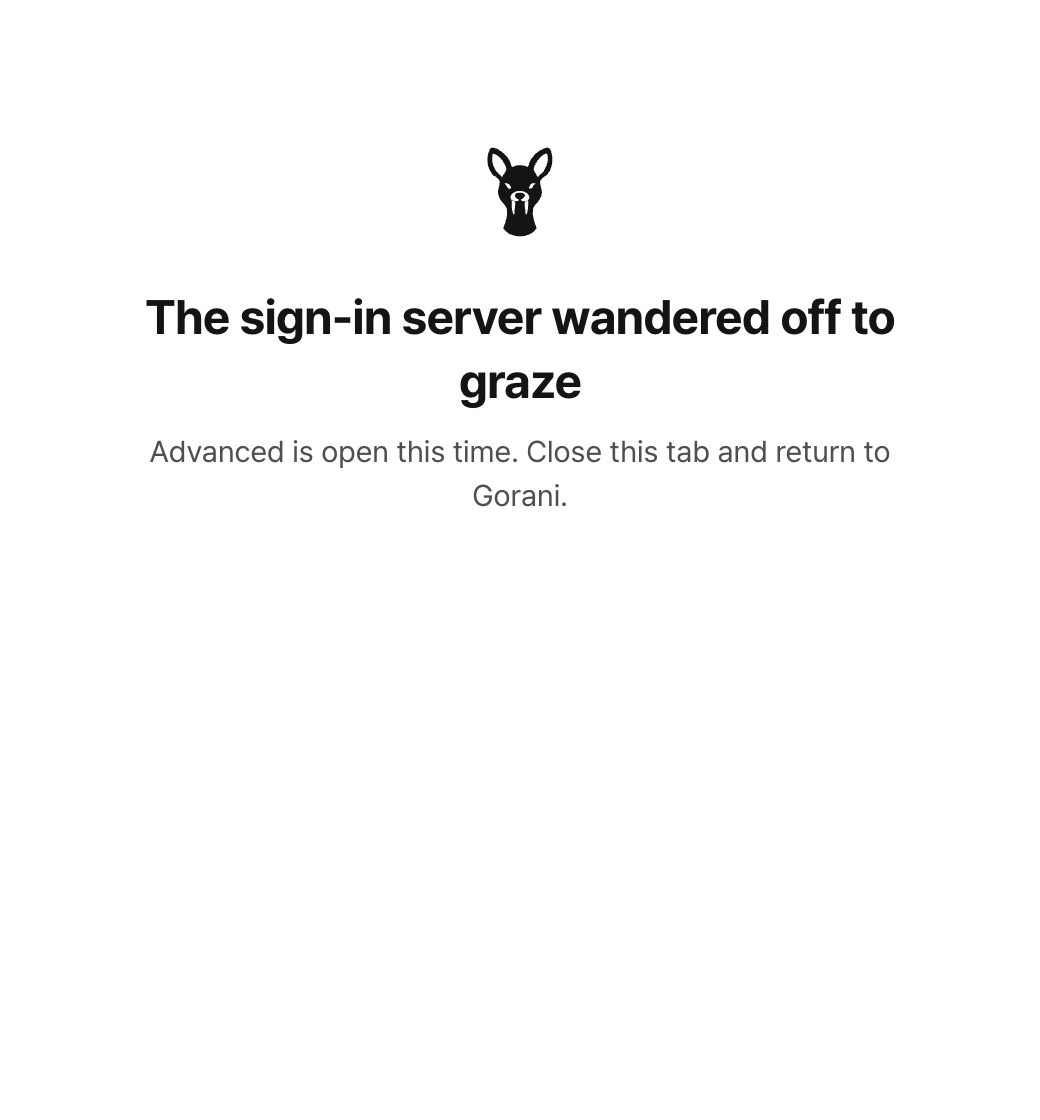
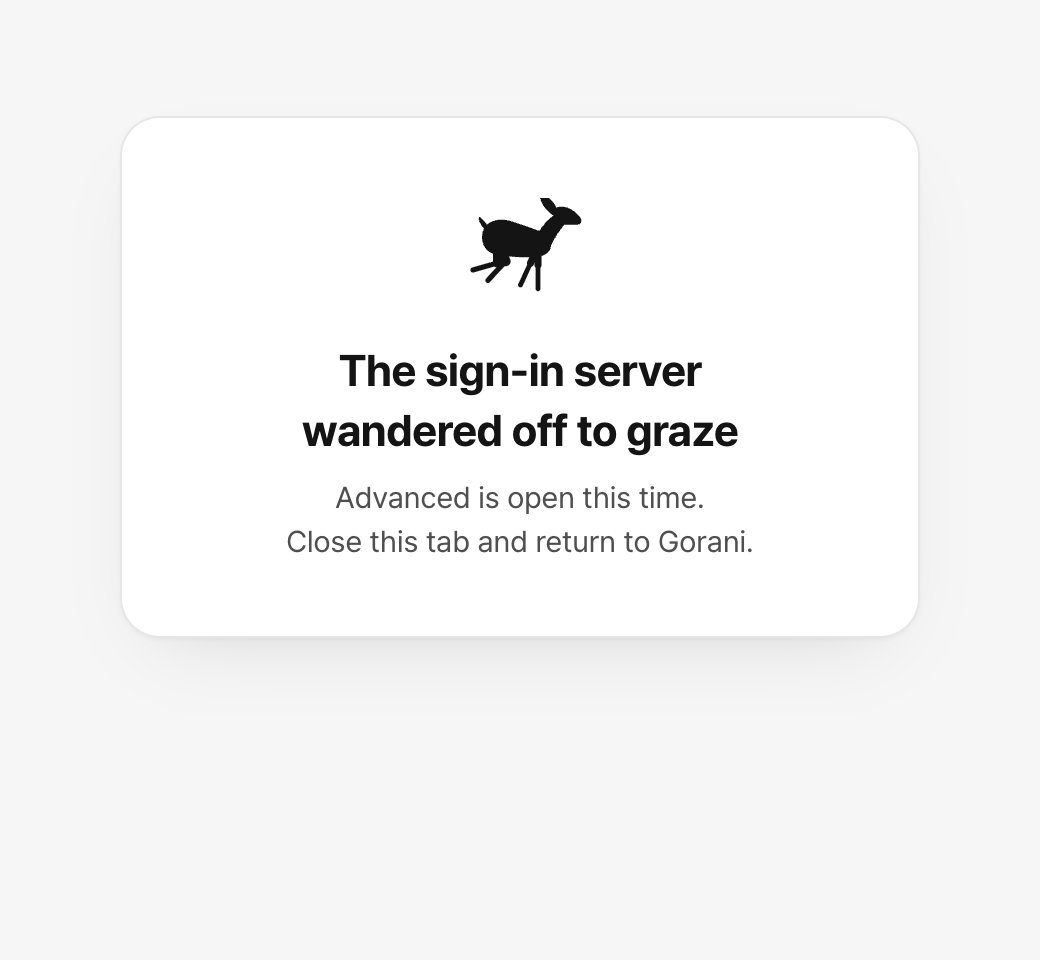
로그인 페이지 모양: 플러그인 로그인 창과 같은 흰 카드(옅은 회색 바탕), 카드 폭 구글 버튼 - 남은 로그인은 검정 주 버튼 '이 계정으로 계속' + 이메일 두 줄, 다른 계정은 '또는' 아래 구글 버튼 - 하는 중은 달리는 고라니와 버튼 잠금, 거절은 옅은 빨간 칸, 패널 밖에서 열면 회색 안내 칸 + 홈 버튼 - 완료 화면: 마크에 결과 표시(완료 ✓·실패 !), 고장이면 풀 뜯으러 가는 고라니 - 설명 문구 줄바꿈 정리(한·영), 캡처 다시 찍음(남은 로그인·하는 중·거절·실패·휴대폰 추가)

Changed region(s): [[0.1231, 0.125, 0.8615, 0.4688], [0.2769, 0.5, 0.7077, 0.5938], [0.1846, 0.6562, 0.8308, 0.6875]]

diff --git a/login/index.html b/login/index.html
@@ -12,22 +12,46 @@
 <link rel="stylesheet" href="../assets/style.css?v=202611091200">
 <style>
   /* 플러그인 로그인 — 브라우저에서 구글 로그인(Firebase) → 열쇠를 이 PC의 플러그인(127.0.0.1)에 폼 POST로 넘긴다(gorani-plugin docs/account_plan.md '구성') */
-  .login { width: min(400px, 100% - 32px); margin: 72px auto; text-align: center; }
-  .login .mark { --s: 48px; color: var(--ink); }
-  .login h1 { margin-top: 16px; font-size: 24px; line-height: 32px; font-weight: 700; letter-spacing: -.02em; }
-  .login .sub { margin-top: 8px; color: var(--ink-2); font-size: 15px; line-height: 22px; }
-  .login .acts { display: grid; justify-items: center; gap: 12px; margin-top: 28px; min-height: 44px; }
-  .login .again { height: 44px; padding: 0 18px; border-radius: 22px; border: 1px solid var(--hair); background: var(--surface); font-weight: 600; cursor: pointer; }
-  .login .again:hover { background: var(--press); }
-  .login .msg { margin-top: 20px; color: var(--ink-2); font-size: 14px; line-height: 21px; }
-  .login .msg.err { color: #B3261E; }
-  .login .terms-note { margin-top: 28px; color: var(--ink-3); font-size: 12px; line-height: 18px; }
+  /* 모양은 플러그인 패널 로그인 창과 같은 결 — 옅은 회색 바탕 위 흰 카드, 마크·제목·버튼·작은 글 */
+  body { background: #F6F6F6; }
+  .login { width: min(400px, 100% - 32px); margin: max(48px, 12vh) auto 48px; padding: 40px 32px 24px; border: 1px solid var(--hair); border-radius: 20px;
+    background: var(--surface); box-shadow: 0 1px 2px rgba(20, 20, 20, .04), 0 16px 40px -20px rgba(20, 20, 20, .16); text-align: center; }
+  .login .home { display: inline-flex; color: var(--ink); }
+  .login .mark { --s: 44px; }
+  .login h1 { margin-top: 16px; font-size: 22px; line-height: 30px; font-weight: 700; letter-spacing: -.02em; text-wrap: balance; }
+  .login .sub { margin-top: 8px; color: var(--ink-2); font-size: 15px; line-height: 22px; white-space: pre-line; }
+  .login .acts { display: grid; gap: 12px; margin-top: 28px; min-height: 44px; transition: opacity .2s; }
+  .login .acts.busy { opacity: .4; pointer-events: none; }
+  .login .acts:empty { display: none; }
+  .login .gis { display: flex; justify-content: center; min-height: 44px; }
+  /* 이 브라우저에 남은 로그인 — 주 버튼(검정), 다른 계정은 '또는' 아래 구글 버튼 */
+  .login .again { display: flex; align-items: center; gap: 12px; width: 100%; min-height: 56px; padding: 8px 20px 8px 12px; border: 0; border-radius: 28px;
+    background: var(--ink); color: var(--on-ink); text-align: left; cursor: pointer; }
+  .login .again:hover { background: color-mix(in srgb, var(--ink) 86%, var(--paper)); }
+  .login .again .avatar { flex: none; display: grid; place-items: center; width: 36px; height: 36px; border-radius: 50%; background: var(--on-ink); color: var(--ink); font-size: 15px; font-weight: 700; text-transform: uppercase; }
+  .login .again .who { display: grid; min-width: 0; }
+  .login .again b { font-size: 15px; line-height: 21px; font-weight: 600; }
+  .login .again small { overflow: hidden; text-overflow: ellipsis; white-space: nowrap; font-size: 13px; line-height: 18px; opacity: .72; }
+  .login .or { display: flex; align-items: center; gap: 12px; color: var(--ink-3); font-size: 13px; line-height: 18px; }
+  .login .or::before, .login .or::after { content: ""; flex: 1; height: 1px; background: var(--hair); }
+  /* 상태 한 줄 — 하는 중은 달리는 고라니, 실패는 옅은 빨간 칸, 안내는 옅은 회색 칸 */
+  .login .msg { display: flex; align-items: center; justify-content: center; gap: 8px; margin-top: 16px; color: var(--ink-2); font-size: 14px; line-height: 21px; }
+  .login .msg:empty { display: none; }
+  .login .msg .run { --w: 24px; --h: 18px; color: var(--ink); }
+  .login .msg.err, .login .msg.info { padding: 10px 14px; border-radius: 12px; }
+  .login .msg.err { background: #FCEEEE; color: #B3261E; }
+  .login .msg.info { margin-top: 28px; background: var(--press); }
+  .login .terms-note { margin-top: 24px; padding-top: 16px; border-top: 1px solid var(--hair); color: var(--ink-3); font-size: 12px; line-height: 18px; }
+  .login .terms-note:empty { display: none; }
   .login .terms-note a { color: var(--ink-2); }
+  .login .to-home { margin-top: 16px; }
+  @media (max-width: 480px) { .login { margin-top: 24px; padding: 32px 20px 20px; } }
+  @media (prefers-reduced-motion: reduce) { .login .acts { transition: none; } .login .msg .run.go { animation: none; } }
 </style>
 </head>
 <body>
 <main class="login">
-  <a href="../" aria-label="Gorani"><span class="mark" aria-hidden="true"></span></a>
+  <a class="home" href="../" aria-label="Gorani"><span class="mark" aria-hidden="true"></span></a>
   <h1 id="title"></h1>
   <p class="sub" id="sub"></p>
   <div class="acts" id="acts"></div>
@@ -50,13 +74,13 @@
   var q = new URLSearchParams(location.search);
   var lang = q.get("lang") === "ko" ? "ko" : "en";   // 패널 언어 — 한국어 밖은 영어(처리방침·약관이 한·영)
   var T = {
-    ko: { title: "Gorani 로그인", sub: "로그인하면 Gorani 플러그인으로 돌아갑니다.", cont: "{0}(으)로 계속", other: "다른 구글 계정으로 로그인하려면 아래 버튼을 누르세요.",
-      fine: '계속하면 <a href="../terms/">이용약관</a>과 <a href="../privacy/">개인정보 처리방침</a>에 동의합니다. 가입해도 결제는 없습니다.',
-      bad: "Gorani 패널의 [구글로 로그인]에서 열어 주세요.",
+    ko: { title: "Gorani 로그인", sub: "구글 계정으로 로그인하면\nGorani 플러그인으로 돌아갑니다.", cont: "이 계정으로 계속", or: "또는",
+      fine: '계속하면 <a href="../terms/">이용약관</a>과 <a href="../privacy/">개인정보 처리방침</a>에 동의합니다.<br>가입해도 결제는 없습니다.',
+      bad: "Gorani 패널의 [구글로 로그인]에서 열어 주세요.", home: "Gorani 홈으로", homeUrl: "../",
       working: "로그인하는 중…", back: "Gorani로 돌아가는 중… 이 탭은 닫아도 됩니다.", fail: "로그인하지 못했습니다. 다시 시도해 주세요." },
-    en: { title: "Sign in to Gorani", sub: "After signing in you return to the Gorani plugin.", cont: "Continue as {0}", other: "To use another Google account, use the button below.",
-      fine: 'By continuing you agree to the <a href="../en/terms/">Terms</a> and <a href="../en/privacy/">Privacy Policy</a>. Membership is free.',
-      bad: "Open this page from [Sign in with Google] in the Gorani panel.",
+    en: { title: "Sign in to Gorani", sub: "Sign in with your Google account\nand return to the Gorani plugin.", cont: "Continue with this account", or: "or",
+      fine: 'By continuing you agree to the <a href="../en/terms/">Terms</a> and <a href="../en/privacy/">Privacy Policy</a>.<br>Membership is free.',
+      bad: "Open this page from [Sign in with Google] in the Gorani panel.", home: "Go to Gorani home", homeUrl: "../en/",
       working: "Signing in…", back: "Returning to Gorani… You can close this tab.", fail: "Could not sign in. Please try again." }
   }[lang];
   document.documentElement.lang = lang;
@@ -65,15 +89,29 @@
   $("title").textContent = T.title;
   $("sub").textContent = T.sub;
   $("fine").innerHTML = T.fine;
-  function msg(text, err) { $("msg").textContent = text || ""; $("msg").className = "msg" + (err ? " err" : ""); }
+  // kind: "busy"(달리는 고라니 + 버튼을 잠근다) | "err" | "info" | 없음
+  function msg(text, kind) {
+    var m = $("msg");
+    m.textContent = "";
+    m.className = "msg" + (kind ? " " + kind : "");
+    if (kind === "busy") { var r = document.createElement("span"); r.className = "run go"; r.setAttribute("aria-hidden", "true"); m.appendChild(r); }
+    if (text) m.appendChild(document.createTextNode(text));
+    $("acts").classList.toggle("busy", kind === "busy");
+  }
 
   // 플러그인이 넘긴 값 — 받는 곳은 127.0.0.1의 그 포트뿐(아무 곳으로나 보내는 통로가 되지 않게)
   var port = Number(q.get("port")), state = q.get("state") || "", host = q.get("h") || "";
-  if (!(port >= 1024 && port <= 65535 && /^[A-Za-z0-9_-]{16,64}$/.test(state) && HOSTS.indexOf(host) >= 0)) { msg(T.bad, true); $("fine").textContent = ""; return; }
+  if (!(port >= 1024 && port <= 65535 && /^[A-Za-z0-9_-]{16,64}$/.test(state) && HOSTS.indexOf(host) >= 0)) {
+    msg(T.bad, "info");
+    $("fine").textContent = "";
+    var home = document.createElement("a"); home.className = "btn to-home"; home.href = T.homeUrl; home.textContent = T.home;
+    $("msg").after(home);
+    return;
+  }
 
   // 플러그인으로 — 최상위 폼 POST라 열쇠가 주소·방문 기록에 남지 않고, fetch가 아니라 크롬 로컬 네트워크 허락 창이 뜨지 않는다
   function handOff(fields) {
-    msg(T.back);
+    msg(T.back, "busy");
     var f = document.createElement("form");
     f.method = "POST";
     f.action = "http://127.0.0.1:" + port + "/gorani-login";
@@ -106,12 +144,12 @@
   }
   function fail(err) {
     if (err && err.message === "service") return broken();
-    msg(T.fail, true);   // 거절(사용 중지된 계정 등) — 넘기지 않는다
+    msg(T.fail, "err");   // 거절(사용 중지된 계정 등) — 넘기지 않는다
     showButtons();
   }
   // 구글 ID 토큰 → Firebase 열쇠(처음이면 그 자리에서 가입)
   function onCredential(resp) {
-    msg(T.working);
+    msg(T.working, "busy");
     firebase(URLS.identity + "accounts:signInWithIdp?key=" + FIREBASE.apiKey, {
       postBody: "id_token=" + encodeURIComponent(resp.credential) + "&providerId=google.com", requestUri: location.origin, returnSecureToken: true
     }).then(function (res) {
@@ -121,7 +159,7 @@
   }
   // 이 브라우저에 남은 열쇠 — securetoken으로 살아 있는지 보고 새 열쇠를 넘긴다
   function continueAs(s) {
-    msg(T.working);
+    msg(T.working, "busy");
     firebase(URLS.token + "?key=" + FIREBASE.apiKey, { grant_type: "refresh_token", refresh_token: s.refresh }, true).then(function (res) {
       store({ refresh: res.refresh_token, email: s.email });
       handOff({ refresh_token: res.refresh_token });
@@ -134,15 +172,23 @@
   function showButtons() {
     var acts = $("acts"); acts.innerHTML = "";
     var s = saved();
-    if (s) {   // 이 브라우저에 웹 로그인이 남아 있으면 버튼 하나로 — 다른 계정은 아래 구글 버튼
-      var b = document.createElement("button"); b.type = "button"; b.className = "again"; b.textContent = T.cont.replace("{0}", s.email);
-      b.onclick = function () { b.disabled = true; continueAs(s); };
+    if (s) {   // 이 브라우저에 웹 로그인이 남아 있으면 버튼 하나로 — 다른 계정은 '또는' 아래 구글 버튼
+      var b = document.createElement("button"); b.type = "button"; b.className = "again";
+      var avatar = document.createElement("span"); avatar.className = "avatar"; avatar.setAttribute("aria-hidden", "true"); avatar.textContent = (s.email || "?").charAt(0);
+      var who = document.createElement("span"); who.className = "who";
+      var title = document.createElement("b"); title.textContent = T.cont;
+      var email = document.createElement("small"); email.textContent = s.email;
+      who.appendChild(title); who.appendChild(email);
+      b.appendChild(avatar); b.appendChild(who);
+      b.onclick = function () { continueAs(s); };
       acts.appendChild(b);
+      var or = document.createElement("div"); or.className = "or"; or.textContent = T.or; acts.appendChild(or);
     }
-    var g = document.createElement("div"); acts.appendChild(g);
+    var g = document.createElement("div"); g.className = "gis"; acts.appendChild(g);
     if (!(window.google && google.accounts && google.accounts.id)) return broken();
     google.accounts.id.initialize({ client_id: GOOGLE_CLIENT_ID, callback: onCredential, auto_select: false, context: "signin" });
-    google.accounts.id.renderButton(g, { theme: "outline", size: "large", shape: "pill", text: "continue_with", locale: lang });
+    google.accounts.id.renderButton(g, { theme: "outline", size: "large", shape: "pill", text: "continue_with", logo_alignment: "center",
+      width: Math.min(400, g.clientWidth || 320), locale: lang });   // 카드 폭에 맞춘다(구글 버튼은 400 px까지)
   }
 
   var gis = document.createElement("script");

diff --git a/login/done/index.html b/login/done/index.html
@@ -12,15 +12,26 @@
 <link rel="stylesheet" href="../../assets/style.css?v=202611091200">
 <style>
   /* 플러그인 받는 곳(127.0.0.1)이 로그인을 마치고 넘기는 곳 — ?ok=1|0, 로그인 쪽 고장이면 ?fallback=1(고급을 열었다), &lang&h */
-  .login { width: min(400px, 100% - 32px); margin: 72px auto; text-align: center; }
-  .login .mark { --s: 48px; color: var(--ink); }
-  .login h1 { margin-top: 16px; font-size: 24px; line-height: 32px; font-weight: 700; letter-spacing: -.02em; }
-  .login .sub { margin-top: 8px; color: var(--ink-2); font-size: 15px; line-height: 22px; }
+  /* 로그인 페이지와 같은 카드 — 마크에 결과 표시(완료 ✓·실패 !), 고장은 풀 뜯으러 가는 고라니 */
+  body { background: #F6F6F6; }
+  .login { width: min(400px, 100% - 32px); margin: max(48px, 12vh) auto 48px; padding: 40px 32px 36px; border: 1px solid var(--hair); border-radius: 20px;
+    background: var(--surface); box-shadow: 0 1px 2px rgba(20, 20, 20, .04), 0 16px 40px -20px rgba(20, 20, 20, .16); text-align: center; }
+  .login .home { position: relative; display: inline-flex; color: var(--ink); }
+  .login .mark { --s: 44px; }
+  .login .run { --w: 64px; --h: 48px; }
+  .login .badge { position: absolute; right: -10px; bottom: -4px; display: grid; place-items: center; width: 22px; height: 22px; border: 2px solid var(--surface); border-radius: 50%;
+    background: var(--ink); color: var(--on-ink); }
+  .login .badge svg { width: 12px; height: 12px; }
+  .login .badge.err { background: #B3261E; }
+  .login h1 { margin-top: 16px; font-size: 22px; line-height: 30px; font-weight: 700; letter-spacing: -.02em; text-wrap: balance; }
+  .login .sub { margin-top: 8px; color: var(--ink-2); font-size: 15px; line-height: 22px; white-space: pre-line; }
+  @media (max-width: 480px) { .login { margin-top: 24px; padding: 32px 20px 28px; } }
+  @media (prefers-reduced-motion: reduce) { .login .run.go { animation: none; } }
 </style>
 </head>
 <body>
 <main class="login">
-  <a href="../../" aria-label="Gorani"><span class="mark" aria-hidden="true"></span></a>
+  <a class="home" id="home" href="../../" aria-label="Gorani"><span class="mark" aria-hidden="true"></span></a>
   <h1 id="title"></h1>
   <p class="sub" id="sub"></p>
 </main>
@@ -28,15 +39,20 @@
 (function () {
   var q = new URLSearchParams(location.search), ok = q.get("ok") === "1", fallback = q.get("fallback") === "1", lang = q.get("lang") === "ko" ? "ko" : "en";
   var T = {   // fallback — 로그인 쪽 고장이라 플러그인이 이번 고급을 열었다(계획 문서 '로그인에 기대지 않기', 문구는 패널 토스트와 같다)
-    ko: fallback ? ["로그인 서버가 풀 뜯으러 갔습니다", "이번 고급은 그냥 열어 둡니다. 이 탭을 닫고 Gorani로 돌아가세요."]
-      : ok ? ["로그인했습니다", "이 탭을 닫고 Gorani로 돌아가세요."] : ["로그인하지 못했습니다", "Gorani 패널에서 [구글로 로그인]을 다시 눌러 주세요."],
-    en: fallback ? ["The sign-in server wandered off to graze", "Advanced is open this time. Close this tab and return to Gorani."]
-      : ok ? ["You’re signed in", "Close this tab and return to Gorani."] : ["Could not sign in", "Press [Sign in with Google] in the Gorani panel again."]
+    ko: fallback ? ["로그인 서버가 풀 뜯으러 갔습니다", "이번 고급은 그냥 열어 둡니다.\n이 탭을 닫고 Gorani로 돌아가세요."]
+      : ok ? ["로그인했습니다", "이 탭을 닫고 Gorani로 돌아가세요."] : ["로그인하지 못했습니다", "Gorani 패널에서\n[구글로 로그인]을 다시 눌러 주세요."],
+    en: fallback ? ["The sign-in server wandered off to graze", "Advanced is open this time.\nClose this tab and return to Gorani."]
+      : ok ? ["You’re signed in", "Close this tab and return to Gorani."] : ["Could not sign in", "Press [Sign in with Google]\nin the Gorani panel again."]
   }[lang];
   document.documentElement.lang = lang;
   document.title = T[0] + " · Gorani";
   document.getElementById("title").textContent = T[0];
   document.getElementById("sub").textContent = T[1];
+  var home = document.getElementById("home");
+  if (fallback) home.innerHTML = '<span class="run go" aria-hidden="true"></span>';   // 풀 뜯으러 간 고라니
+  else home.insertAdjacentHTML("beforeend", ok   // 마크 아래 오른쪽에 결과 표시
+    ? '<span class="badge" aria-hidden="true"><svg viewBox="0 0 12 12" fill="none" stroke="currentColor" stroke-width="2" stroke-linecap="round" stroke-linejoin="round"><path d="M2.5 6.2 5 8.5l4.5-5"/></svg></span>'
+    : '<span class="badge err" aria-hidden="true"><svg viewBox="0 0 12 12" fill="none" stroke="currentColor" stroke-width="2" stroke-linecap="round"><path d="M6 2.8v3.8M6 9.2v.01"/></svg></span>');
 })();
 </script>
 </body>
